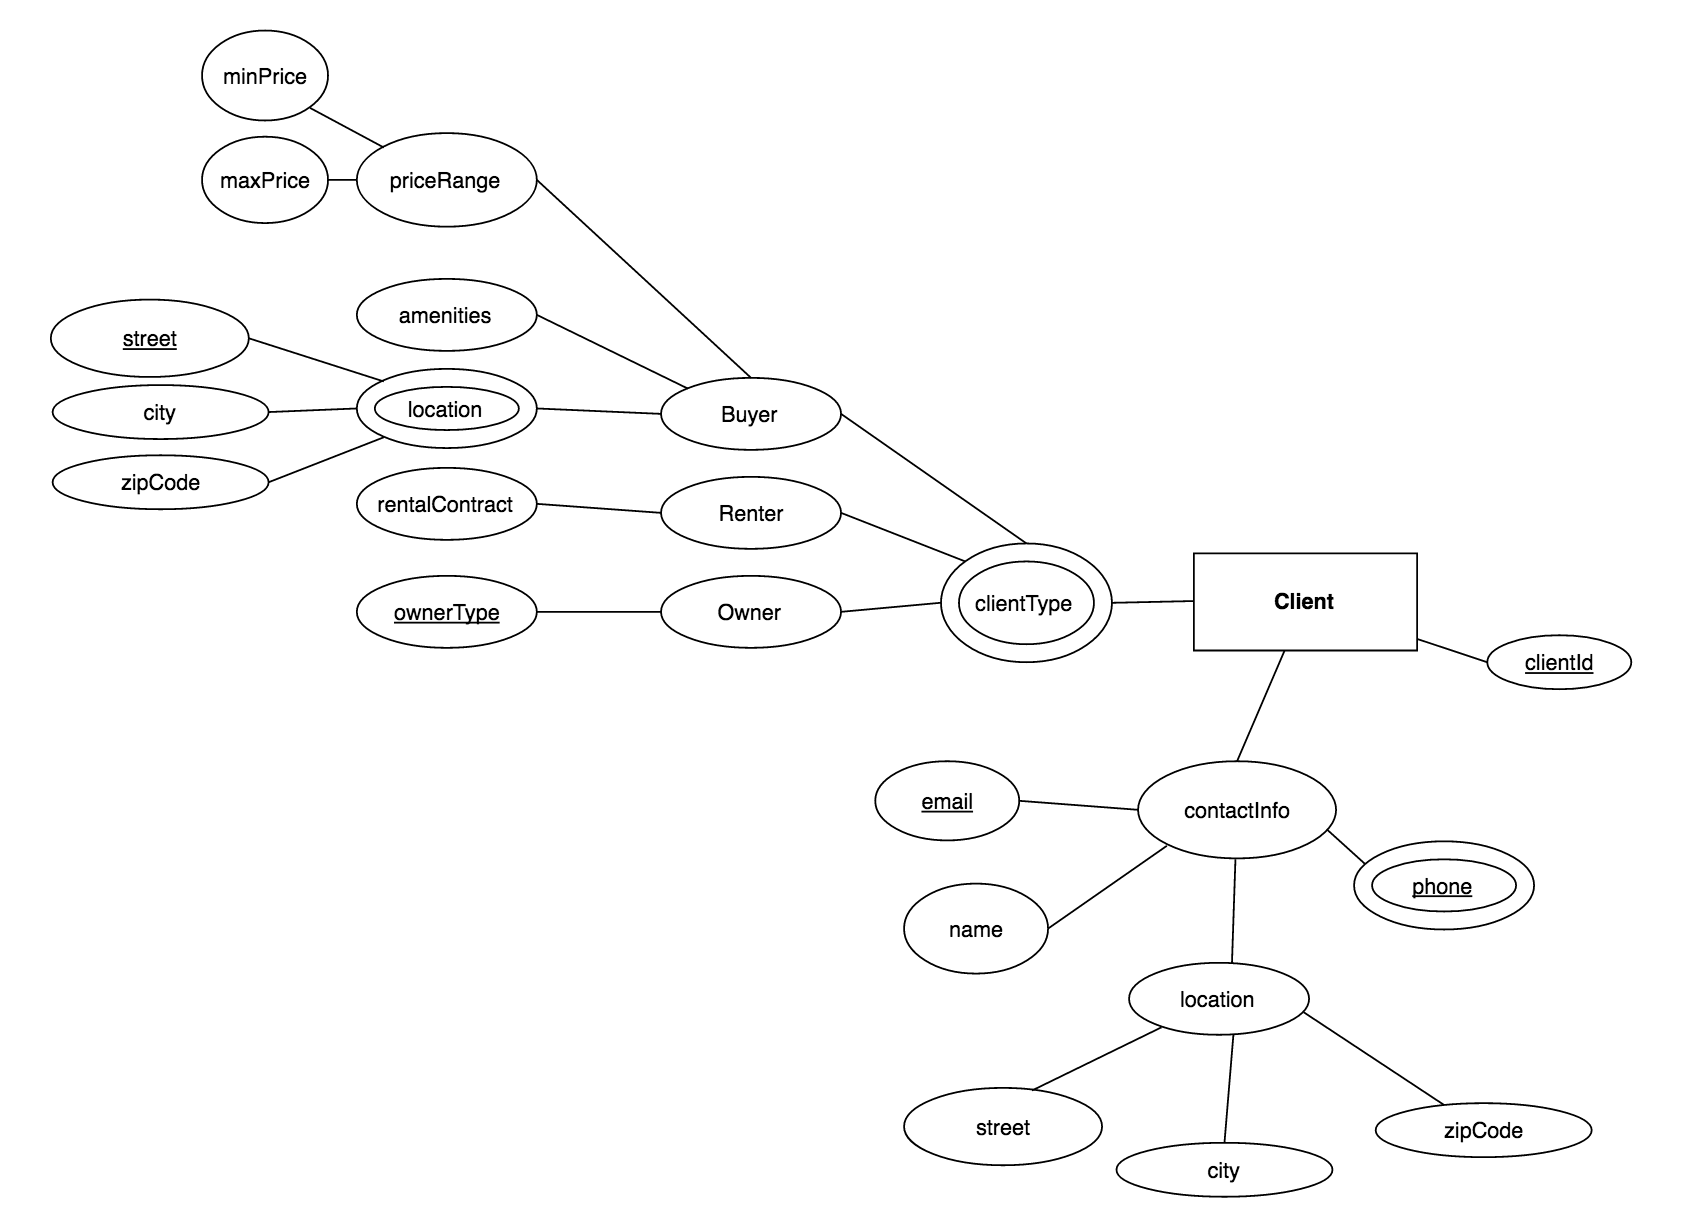
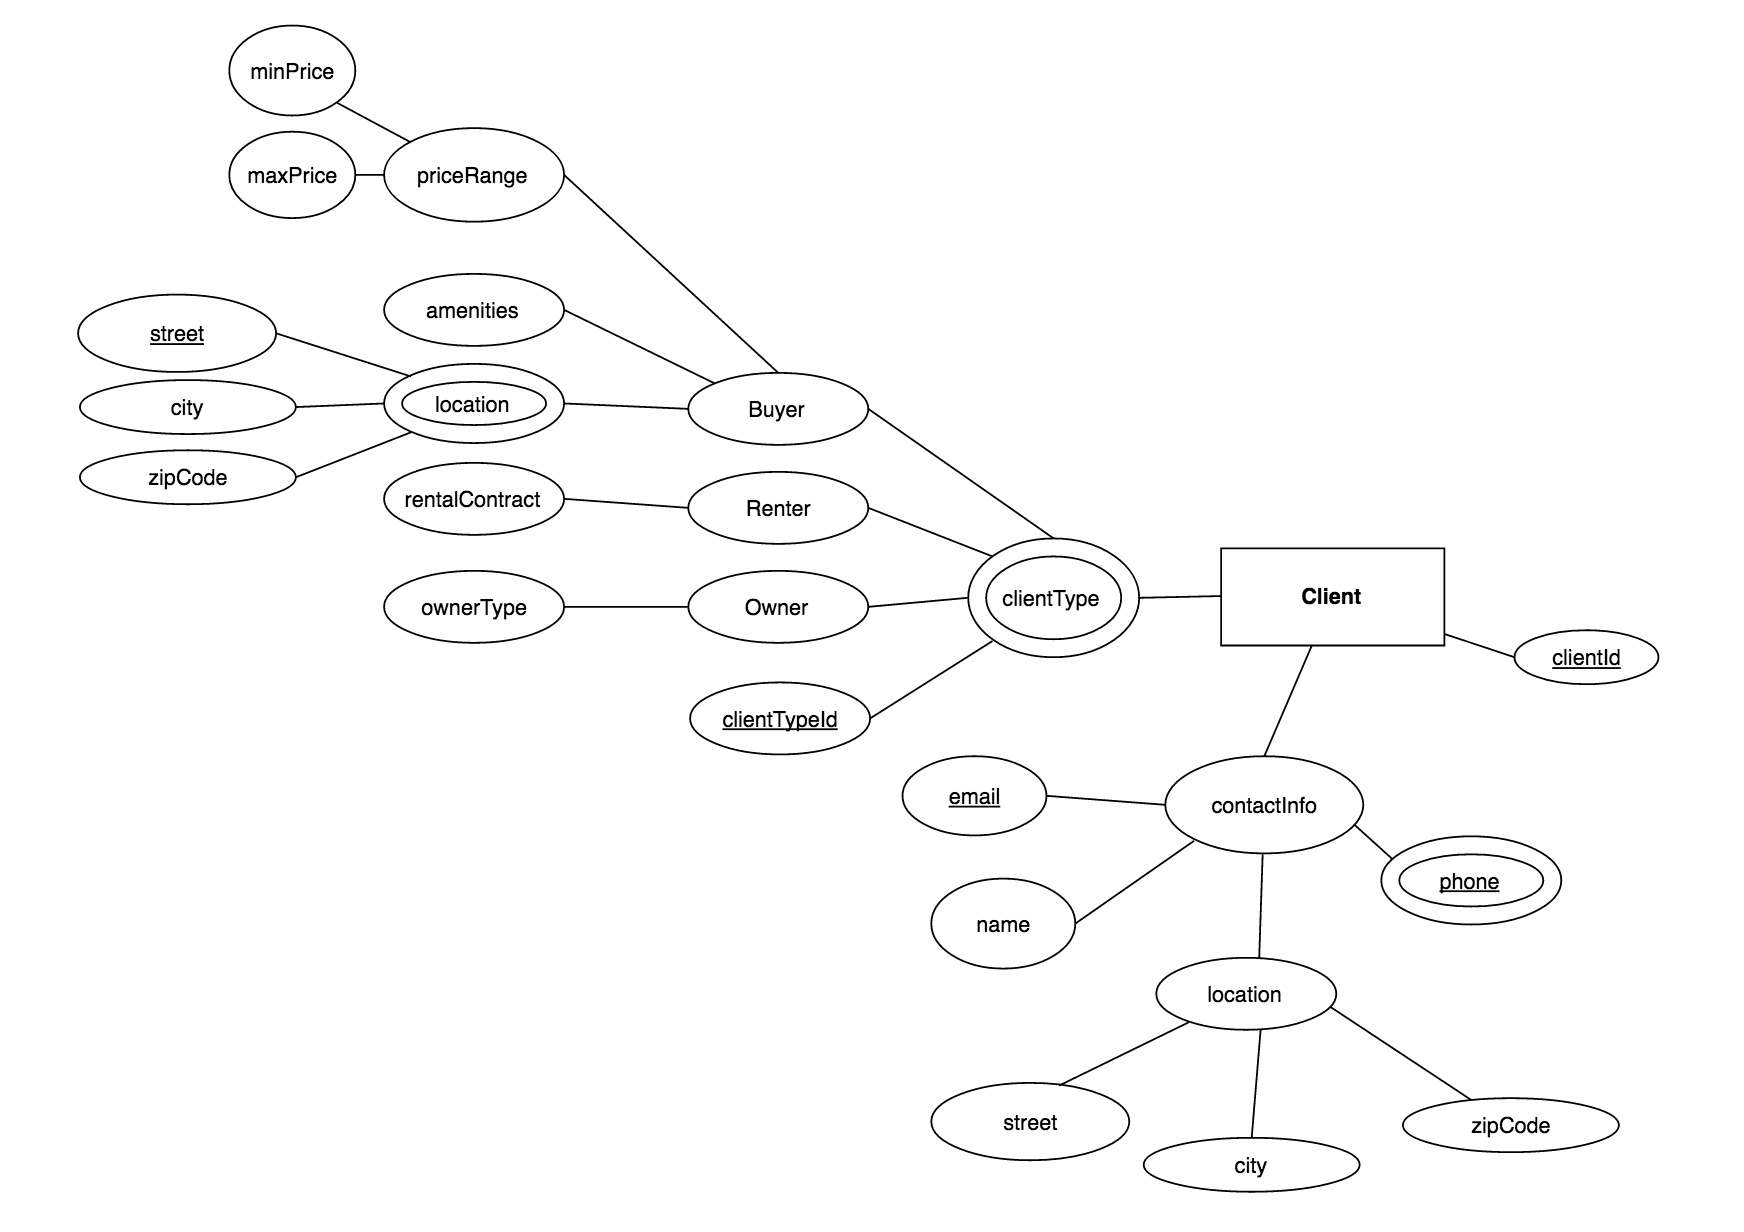
adding clientTypeId to make multivalued attribute clientType work according to mapping rules

diff --git a/website/index.html b/website/index.html
@@ -289,7 +289,7 @@
         <p>propertyOffersMade(<strong><em>propertyId</em></strong>, <strong>offerId</strong>, offerPrice, offerDate, acceptedOrRejected)</p>
         <p>owns(<strong><em>clientId</em></strong>, <strong><em>PropertyId</em></strong>)</p>
         <p>client(<strong>clientId</strong>, email, name, street, city, zipCode)</p>
-        <p>clientType(<strong><em>clientId</em></strong>, <strong>ownerType</strong>, rentalContract, amenities, minPrice, maxPrice)</p>
+        <p>clientType(<strong><em>clientId</em></strong>, <strong>clientTypeId</strong>, ownerType, rentalContract, amenities, minPrice, maxPrice)</p>
         <p>clientBuyerLocation(<strong><em>clientId</em></strong>, <strong>street</strong>, city, zipCode)</p>
         <p>clientPhone(<strong><em>clientId</em></strong>, <strong>phone</strong>)</p>
         <p>hasA(<strong><em>clientId</em></strong>, <strong><em>branchId</em></strong>)</p>
@@ -406,6 +406,7 @@
         <table class="table table-responsive table-hover table-striped">
           <h4>client Types:</h4>
           <tr><td>String clientId</td><td>first character is letter 'c' (for client), rest of characters are numbers (ten characters)</td></tr>
+          <tr><td>String clientTypeId</td><td>first character is letter 't' (for type), rest of characters are numbers (ten characters)</td></tr>
           <tr><td>String email</td><td>< 50 chars</td></tr>
           <tr><td>String name</td><td>< 100 chars</td></tr>
           <tr><td>String street</td><td>typically < 100 chars</td></tr>
